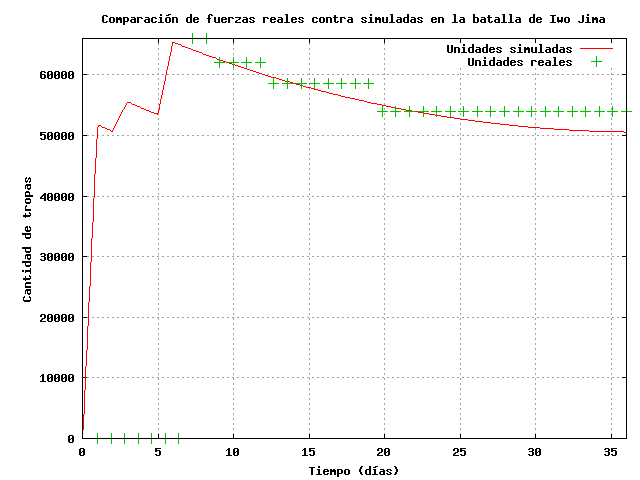
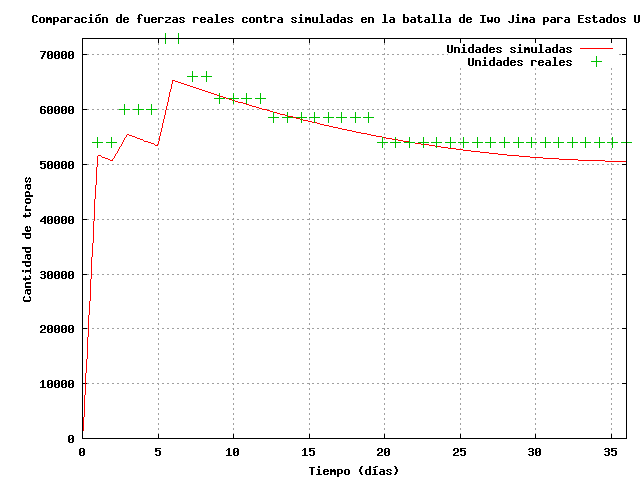
Mejoras en los graficos y funciones

diff --git a/tp1_iwojima/src/iwojima.m b/tp1_iwojima/src/iwojima.m
@@ -74,7 +74,7 @@ figure(2);
 
 other_t = linspace(1,days,40);
 plot(japan_vs_usa.t, japan_vs_usa.usa,"-;Unidades simuladas;",other_t,american(other_t)',"+;Unidades reales;","markersize",10);
-title (strcat("Comparaci",sprintf("%c",243),"n de fuerzas reales contra simuladas en la batalla de Iwo Jima"));
+title (strcat("Comparaci",sprintf("%c",243),"n de fuerzas reales contra simuladas en la batalla de Iwo Jima para Estados Unidos"));
 
 xlabel (strcat("Tiempo (d",sprintf("%c",237),"as)"));
 ylabel ("Cantidad de tropas");

diff --git a/tp1_iwojima/src/american.m b/tp1_iwojima/src/american.m
@@ -10,7 +10,13 @@ function r = american(t)
     end
 
     r = 0;
-    if (t >= 7 && t < 9)
+    if ( t >= 0 && t < 2)
+        r = 54000;
+    elseif ( t >= 2 && t < 5)
+        r = 60000;
+    elseif ( t >=5 && t < 7)
+        r = 73000;
+    elseif (t >= 7 && t < 9)
         r = 66000;
     elseif (t>=9 && t < 12)
         r = 62000;
